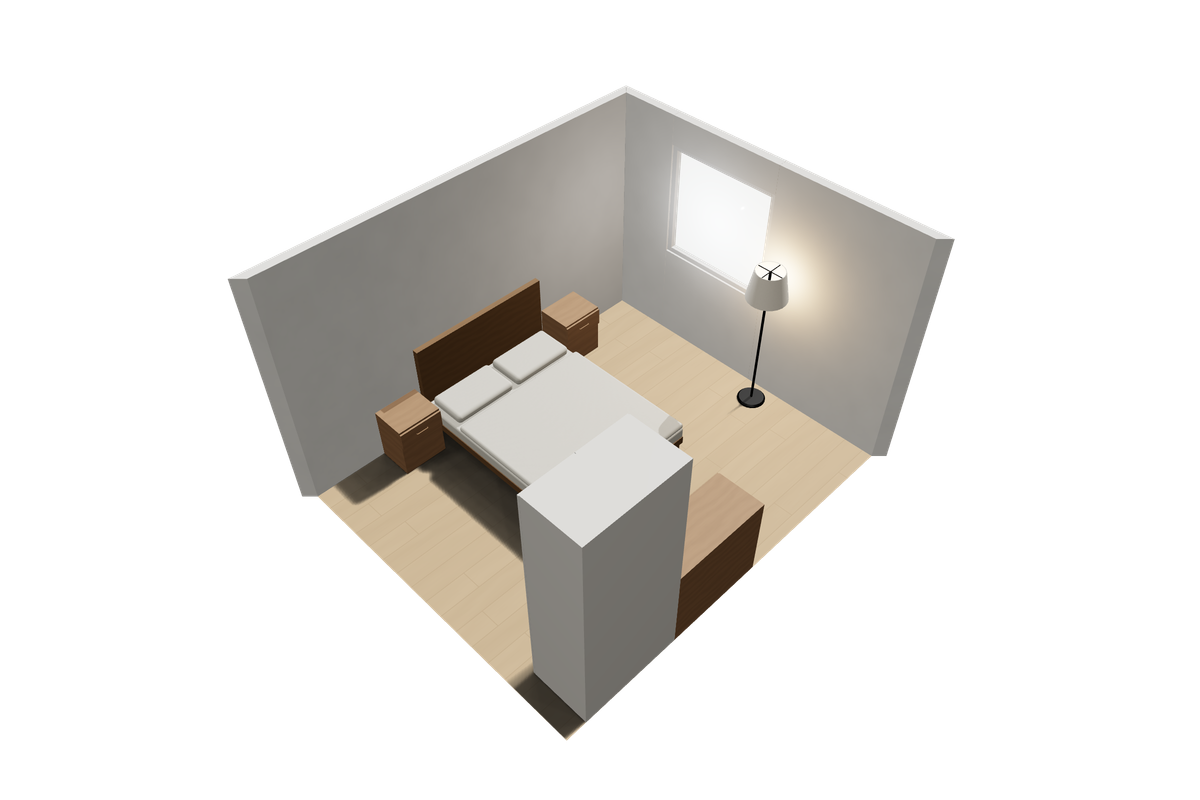
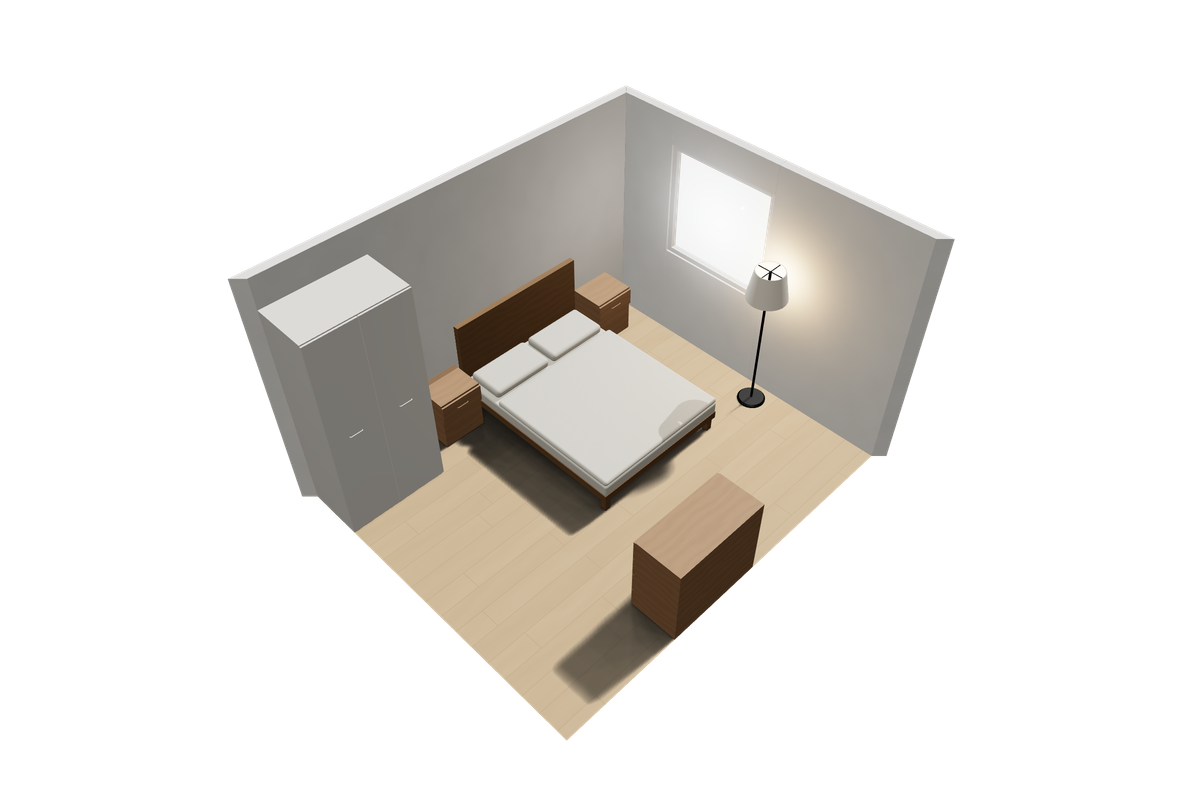
fix(web): el armario del dormitorio de ejemplo ya no tapa media habitación en 3D
La vista 3D inicial mira desde abajo a la izquierda y el armario estaba en
esa esquina, delante de todo. Pasa a la esquina de arriba a la izquierda,
contra la pared del cabecero; la cama y las mesitas se desplazan a la
derecha, a menos de 30 cm del armario y de la pared para que no quede
ningún paso estrecho. Imagen del ejemplo rehecha.

ejemplos.test.ts comprueba ahora que lo alto y ancho (más de 150 de alto y
60 de ancho) va contra la pared de arriba o la de la derecha.

Changed region(s): [[0.2467, 0.3125, 0.6167, 0.9375], [0.2158, 0.3125, 0.3392, 0.4375]]

diff --git a/web/src/ejemplos/index.ts b/web/src/ejemplos/index.ts
@@ -15,15 +15,20 @@ export interface Ejemplo {
 // su pared. Los muebles van centrados y con el frente hacia abajo (giro 0) o hacia arriba (180). Ningún ejemplo tiene
 // avisos: cada mueble va pegado a la pared o a 60 cm o más de lo que tiene al lado (`ejemplos.test.ts`).
 
-/** Dormitorio de 400 × 330: cama centrada contra la pared de arriba con sus mesitas, armario y cómoda abajo a la izquierda, y lámpara. */
+/**
+ * Dormitorio de 400 × 330: armario en la esquina de arriba a la izquierda y, a su lado contra la misma pared, la cama con sus
+ * mesitas; cómoda abajo y lámpara. El armario va al fondo porque la vista 3D inicial mira desde abajo a la izquierda: en esa
+ * esquina tapaba media habitación.
+ */
 const dormitorio: DocumentoDiseno = estancia('dormitorio', 400, 330, {
   aberturas: [puerta('puerta', 2, 20), ventana('ventana', 1, 60)],
   elementos: [
-    mueble('cama', 'cama', 200, 100),
-    mueble('mesita', 'mesita-izquierda', 97, 20),
-    mueble('mesita', 'mesita-derecha', 303, 20),
+    mueble('armario', 'armario', 50, 30),
+    // Cama y mesitas, juntas, a menos de 30 cm del armario y de la pared de la derecha: así no queda ningún paso estrecho.
+    mueble('mesita', 'mesita-izquierda', 144.5, 20),
+    mueble('cama', 'cama', 247, 100),
+    mueble('mesita', 'mesita-derecha', 349.5, 20),
     mueble('comoda', 'comoda', 170, 305, 180),
-    mueble('armario', 'armario', 70, 300, 180),
     mueble('lampara-pie', 'lampara', 380, 200),
   ],
 })

diff --git a/web/src/ejemplos/ejemplos.test.ts b/web/src/ejemplos/ejemplos.test.ts
@@ -26,6 +26,18 @@ describe('ejemplos del inicio', () => {
     it('no tiene ni errores ni avisos: es lo primero que ve quien llega, y «6 avisos» resta confianza', () => {
       expect(detectarConflictos(ejemplo.documento, catalogoBase).map((c) => c.mensaje)).toEqual([])
     })
+    it('lo alto y ancho va contra la pared de arriba o la de la derecha: la vista 3D inicial mira desde abajo a la izquierda y ahí no tapa nada', () => {
+      const { estancia } = ejemplo.documento
+      const anchoEstancia = Math.max(...estancia.planta.map((p) => p.x))
+      for (const e of ejemplo.documento.elementos) {
+        if (e.medidas.alto <= 150 || e.medidas.ancho < 60) continue
+        const huella = catalogoBase.get(e.tipo)!.volumenes(e).flatMap((v) => v.huella)
+        const arriba = Math.min(...huella.map((p) => p.y)) < 1
+        const derecha = Math.max(...huella.map((p) => p.x)) > anchoEstancia - 1
+        expect(arriba || derecha, e.id).toBe(true)
+      }
+    })
+
     it('su imagen existe en public', () => {
       expect(ejemplo.imagen).toMatch(/^\/ejemplos\/[a-z-]+\.(png|jpg|webp)$/)
       expect(IMAGENES, ejemplo.imagen).toContain(ejemplo.imagen)

diff --git a/CLAUDE.md b/CLAUDE.md
@@ -113,7 +113,7 @@ Los tests de integración llevan `[Trait("Categoria","Integracion")]`; de ahí e
 - Teclado en el plano (M-28): con `alPulsar`, `CapaElementos` añade una capa de **asas de foco** (`.capa-elementos__foco`: un `<polygon role="button" tabIndex={0}>` con la caja de cada pieza, sin relleno ni puntero, `aria-label` con nombre, medidas y «bloqueado/a» según el género del tipo, y `aria-current` en la seleccionada), ordenada por posición con las alfombras primero. Recibir el foco selecciona (así Supr, R y las flechas actúan sobre lo que se ve con el foco); Intro y Espacio también; a mitad de un arrastre, nada. **El orden de pintado de las piezas no cambia con la posición** (alfombras debajo, luego inserción): reordenar el DOM durante un arrastre hace que el navegador suelte la captura del puntero y el arrastre se corte (`e2e/arrastre.spec.ts`), y además cambiaría el apilado. El `<svg>` del plano es `role="group"` y los nombres van `aria-hidden`. Sin `alPulsar` (paso 1, midiendo, plano exportado, vista compartida) no hay asas.
 - Instalar como app (M-25): `instalacion.ts` guarda el `beforeinstallprompt` (anulado) y `appinstalled`; `conectarInstalacion()` va en `main.tsx` antes de `createRoot` porque el evento puede llegar antes de montar. `useEstadoDeInstalacion()` da `no` (ya en standalone o sin aviso), `aviso` o `ios` (iPhone, o iPad que se presenta como Mac con pantalla táctil); «Instalar Decorazon» en `MenuMas` llama a `instalar()` (consume el aviso: Chrome solo deja enseñarlo una vez) o abre la nota de iOS (`Confirmar` con `soloAceptar`).
 - Modo oscuro (M-29): solo `prefers-color-scheme: dark` sobre los tokens de `base.css`, sin selector. Los colores fijos de las hojas son tokens: `--sobre-tinta` (texto sobre fondo tinta), `--primario` + `--sobre-terracota` (botones primarios; de noche la terracota del texto se aclara y la del fondo no), `--bien`, `--peligro-suave`, `--sombra` (`rgb(var(--sombra) / 0.1)`). **El plano no cambia**: `.lienzo` lleva fondo blanco fijo y `.lienzo__svg`, `.panel-catalogo__miniatura`, `.hoja-impresion__pagina`, `.compartido__plano` y `.plano-ampliado__plano` redefinen los tokens claros (`lienzo.css`): todo lo que pinta el plano es papel claro también de noche; la 3D tampoco cambia. Texto sobre `--peligro` va con `--sobre-peligro`. `contraste.test.ts` comprueba los pares WCAG de los dos esquemas (texto 4,5:1, bordes 3:1) sobre `base.css?raw`; `e2e/oscuro.spec.ts` (`colorScheme: dark`) comprueba fondo oscuro, plano claro y consola limpia, y deja capturas en `test-results/`.
-- Los tres ejemplos del inicio viven en `web/src/ejemplos/index.ts` como documentos construidos con `documentoNuevo` y `elementoNuevo` (no JSON): `ejemplos.test.ts` comprueba que validan, no tienen conflictos y tienen imagen. Las imágenes (`web/public/ejemplos/*.png`) se regeneran abriendo una copia del ejemplo y pulsando «Descargar imagen 3D», y se reducen a 1200 × 800 (la captura sale a 2400 × 1600; la primera es el LCP del inicio); después, `npm run imagen-redes`. «Abrir una copia» sigue el flujo de la vista compartida (`sustituiriaDisenoAnonimo` → `Confirmar` → `empezarAnonimoCon`). La guía del primer uso (`editor/GuiaInicial.tsx`) solo sale al crear una estancia anónima con el editor ya montado (suscripción al almacén en `Editor.tsx`) y deja la marca `decorazon.guia = 'vista'` (`editor/marcaDeGuia.ts`); los e2e la llevan puesta de antemano con `storageState` (`e2e/estado-sin-guia.json`, en las dos configuraciones de Playwright) y solo `ejemplos.spec.ts` la quita para probarla.
+- Los tres ejemplos del inicio viven en `web/src/ejemplos/index.ts` como documentos construidos con `documentoNuevo` y `elementoNuevo` (no JSON): `ejemplos.test.ts` comprueba que validan, no tienen conflictos y tienen imagen, y que lo alto y ancho (más de 150 de alto y 60 de ancho) va contra la pared de arriba o la de la derecha: la vista 3D inicial mira desde abajo a la izquierda, y en una de esas esquinas el armario del dormitorio tapaba media habitación. Las imágenes (`web/public/ejemplos/*.png`) se regeneran abriendo una copia del ejemplo y pulsando «Descargar imagen 3D», y se reducen a 1200 × 800 (la captura sale a 2400 × 1600; la primera es el LCP del inicio); después, `npm run imagen-redes`. «Abrir una copia» sigue el flujo de la vista compartida (`sustituiriaDisenoAnonimo` → `Confirmar` → `empezarAnonimoCon`). La guía del primer uso (`editor/GuiaInicial.tsx`) solo sale al crear una estancia anónima con el editor ya montado (suscripción al almacén en `Editor.tsx`) y deja la marca `decorazon.guia = 'vista'` (`editor/marcaDeGuia.ts`); los e2e la llevan puesta de antemano con `storageState` (`e2e/estado-sin-guia.json`, en las dos configuraciones de Playwright) y solo `ejemplos.spec.ts` la quita para probarla.
 - En react-three-fiber, si una prop deja de pasarse a un objeto cuyo constructor lleva argumentos (`OrbitControls(object, domElement)`), `diffProps` la pone a **0**, no a su valor por defecto: `rotateSpeed` 0 (no gira), `enableZoom` 0 (el pellizco muere porque los manejadores táctiles comparan por veracidad). Las props que cambian según el modo se pasan siempre, con ternario.
 - El build de los e2e es de producción y leería `VITE_ANALITICA_SITIO` de `.env.production`; el tracker falla por CORS desde `localhost` y `vista3d.spec.ts` exige consola limpia. `playwright.config.ts` arranca el `webServer` con esa variable vacía.
 
